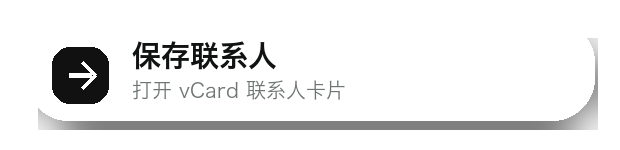
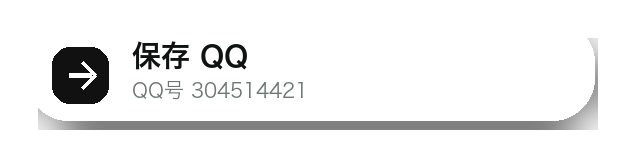
Add WeChat and QQ AR actions

Changed region(s): [[0.2145, 0.5333, 0.5516, 0.6667], [0.3065, 0.2667, 0.4597, 0.48]]

diff --git a/card/ar-live.html b/card/ar-live.html
@@ -333,6 +333,39 @@
     .tap-flash.show {
       animation: tap-pulse 420ms cubic-bezier(.16,1,.3,1);
     }
+    .social-toast {
+      position: fixed;
+      z-index: 38;
+      left: 50%;
+      bottom: max(26px, calc(env(safe-area-inset-bottom) + 20px));
+      width: min(340px, calc(100vw - 32px));
+      padding: 14px 16px;
+      color: #fff;
+      background: rgba(16,19,18,.9);
+      border: 1px solid rgba(255,255,255,.18);
+      box-shadow: 0 22px 48px rgba(0,0,0,.34);
+      backdrop-filter: blur(18px);
+      transform: translate3d(-50%, 18px, 0);
+      opacity: 0;
+      pointer-events: none;
+      transition: opacity 180ms ease, transform 180ms ease;
+    }
+    .social-toast.show {
+      opacity: 1;
+      transform: translate3d(-50%, 0, 0);
+    }
+    .social-toast strong {
+      display: block;
+      font-size: 15px;
+      line-height: 1.25;
+    }
+    .social-toast span {
+      display: block;
+      margin-top: 5px;
+      color: rgba(255,255,255,.72);
+      font-size: 12px;
+      line-height: 1.45;
+    }
     @keyframes card-in {
       from { opacity: 0; transform: translate3d(-24px, -12px, 0) rotate(-4deg) scale(.92); }
       to { opacity: 1; transform: translate3d(0, 0, 0) rotate(2.5deg) scale(1); }
@@ -447,8 +480,8 @@
       <img class="visual held-card" src="tan-junjia-front-print-ready.png" alt="名片正面">
       <img class="visual gallery" src="ar-assets/gallery-panel.png" alt="项目卡片预览">
       <img class="visual identity" src="ar-assets/identity-float.png" alt="谭俊佳">
-      <a class="visual pill website" href="wechat.html"><img src="ar-assets/button-website.png" alt="打开名片页"></a>
-      <a class="visual pill contact" href="contact.vcf"><img src="ar-assets/button-contact.png" alt="保存联系人"></a>
+      <a class="visual pill website" href="weixin://contacts/profile/cyclone_2006"><img src="ar-assets/button-website.png" alt="保存微信 cyclone_2006"></a>
+      <a class="visual pill contact" href="mqqwpa://im/chat?chat_type=wpa&uin=304514421&version=1&src_type=web&web_src=oicqzone.com"><img src="ar-assets/button-contact.png" alt="保存 QQ 304514421"></a>
       <img class="visual web-panel" src="ar-assets/web-panel.png" alt="资料页面板">
       <div class="quick-strip"><strong>广东鼎汇 AR 名片</strong><span>电话 / 邮件 / 地址 / 保存联系人</span></div>
       <a class="icon-link icon-call" href="tel:13692233879"><img src="ar-assets/icon-call.png" alt="拨打电话"></a>
@@ -466,6 +499,7 @@
     <a href="contact.vcf"><img src="ar-assets/icon-save.png" alt="">保存</a>
   </nav>
   <div class="tap-flash" id="tap-flash"></div>
+  <div class="social-toast" id="social-toast" aria-live="polite"></div>
 
   <div id="ar-mount"></div>
   <template id="ar-template">
@@ -512,16 +546,16 @@
             animation__show="property: scale; startEvents: arshow; from: 0.001 0.001 0.001; to: 1 1 1; dur: 430; delay: 390; easing: easeOutBack"
             animation__rise="property: position; startEvents: arshow; from: 0.75 0.04 0.06; to: 0.75 0.08 0.2; dur: 430; delay: 390; easing: easeOutCubic"
             animation__hide="property: scale; startEvents: arhide; to: 0.001 0.001 0.001; dur: 140; easing: easeInQuad">
-            <a-plane class="clickable" data-href="wechat.html" width="0.54" height="0.131" material="src: #buttonWebsite; transparent: true; alphaTest: 0.02; side: double"></a-plane>
-            <a-plane class="clickable" data-href="wechat.html" width="0.66" height="0.22" position="0 0 0.01" material="color: #ffffff; transparent: true; opacity: 0.001; side: double"></a-plane>
+            <a-plane class="clickable" data-href="weixin://contacts/profile/cyclone_2006" width="0.54" height="0.131" material="src: #buttonWebsite; transparent: true; alphaTest: 0.02; side: double"></a-plane>
+            <a-plane class="clickable" data-href="weixin://contacts/profile/cyclone_2006" width="0.66" height="0.22" position="0 0 0.01" material="color: #ffffff; transparent: true; opacity: 0.001; side: double"></a-plane>
           </a-entity>
 
           <a-entity data-pop position="0.75 -0.12 0.2" scale="0.001 0.001 0.001"
             animation__show="property: scale; startEvents: arshow; from: 0.001 0.001 0.001; to: 1 1 1; dur: 430; delay: 500; easing: easeOutBack"
             animation__rise="property: position; startEvents: arshow; from: 0.75 -0.16 0.06; to: 0.75 -0.12 0.2; dur: 430; delay: 500; easing: easeOutCubic"
             animation__hide="property: scale; startEvents: arhide; to: 0.001 0.001 0.001; dur: 140; easing: easeInQuad">
-            <a-plane class="clickable" data-href="contact.vcf" width="0.54" height="0.131" material="src: #buttonContact; transparent: true; alphaTest: 0.02; side: double"></a-plane>
-            <a-plane class="clickable" data-href="contact.vcf" width="0.66" height="0.22" position="0 0 0.01" material="color: #ffffff; transparent: true; opacity: 0.001; side: double"></a-plane>
+            <a-plane class="clickable" data-href="mqqwpa://im/chat?chat_type=wpa&uin=304514421&version=1&src_type=web&web_src=oicqzone.com" width="0.54" height="0.131" material="src: #buttonContact; transparent: true; alphaTest: 0.02; side: double"></a-plane>
+            <a-plane class="clickable" data-href="mqqwpa://im/chat?chat_type=wpa&uin=304514421&version=1&src_type=web&web_src=oicqzone.com" width="0.66" height="0.22" position="0 0 0.01" material="color: #ffffff; transparent: true; opacity: 0.001; side: double"></a-plane>
           </a-entity>
 
           <a-entity data-pop position="1.72 0.14 0.18" rotation="0 -7 0" scale="0.001 0.001 0.001"
@@ -565,6 +599,9 @@
     const statusBox = document.getElementById("tracking-status");
     const startButton = document.getElementById("start-camera");
     const tapFlash = document.getElementById("tap-flash");
+    const socialToast = document.getElementById("social-toast");
+    const WECHAT_ID = "cyclone_2006";
+    const QQ_ID = "304514421";
     let started = false;
     const isIOS = /iPad|iPhone|iPod/.test(navigator.userAgent) || (navigator.platform === "MacIntel" && navigator.maxTouchPoints > 1);
 
@@ -592,11 +629,76 @@
       tapFlash.classList.add("show");
     }
 
+    function showSocialToast(title, message) {
+      if (!socialToast) return;
+      socialToast.innerHTML = `<strong>${title}</strong><span>${message}</span>`;
+      socialToast.classList.add("show");
+      clearTimeout(showSocialToast.timer);
+      showSocialToast.timer = setTimeout(() => socialToast.classList.remove("show"), 4200);
+    }
+
+    async function copyText(text) {
+      if (!text) return false;
+      try {
+        if (navigator.clipboard && window.isSecureContext) {
+          await navigator.clipboard.writeText(text);
+          return true;
+        }
+      } catch (_) {
+      }
+
+      try {
+        const input = document.createElement("textarea");
+        input.value = text;
+        input.setAttribute("readonly", "");
+        input.style.position = "fixed";
+        input.style.left = "-9999px";
+        document.body.appendChild(input);
+        input.select();
+        const copied = document.execCommand("copy");
+        input.remove();
+        return copied;
+      } catch (_) {
+        return false;
+      }
+    }
+
+    function socialActionForHref(href) {
+      if (href.startsWith("weixin://")) {
+        return {
+          appName: "微信",
+          idName: "微信号",
+          idValue: WECHAT_ID,
+          status: "正在打开微信",
+          hint: "微信号已复制，如果没有自动跳转，请打开微信搜索添加"
+        };
+      }
+      if (href.startsWith("mqqwpa://") || href.startsWith("tencent://")) {
+        return {
+          appName: "QQ",
+          idName: "QQ号",
+          idValue: QQ_ID,
+          status: "正在打开 QQ",
+          hint: "QQ号已复制，如果没有自动跳转，请打开 QQ 搜索添加"
+        };
+      }
+      return null;
+    }
+
     function openAction(href, x, y) {
       if (!href) return;
       flashTap(x, y);
       if (navigator.vibrate) navigator.vibrate(18);
-      setStatus("正在打开", "如果没有跳转，请点底部快捷按钮", true);
+      const social = socialActionForHref(href);
+      if (social) {
+        copyText(social.idValue).then((copied) => {
+          const copyMessage = copied ? `${social.idName}已复制：${social.idValue}` : `${social.idName}：${social.idValue}`;
+          showSocialToast(social.status, `${copyMessage}。${social.hint}`);
+        });
+        setStatus(social.status, `${social.idName} ${social.idValue}`, true);
+      } else {
+        setStatus("正在打开", "如果没有跳转，请再点一次按钮", true);
+      }
       setTimeout(() => {
         window.location.href = href;
       }, 90);
@@ -701,7 +803,7 @@
           root.setAttribute("visible", true);
           requestAnimationFrame(() => pops.forEach((el) => el.emit("arshow")));
           setTimeout(() => pops.forEach((el) => el.emit("arfloat")), 1550);
-          setStatus("已识别名片", "可以点击电话、邮件、地址或保存按钮", true);
+          setStatus("已识别名片", "可以点击微信、QQ、电话、邮件或地址", true);
         }
 
         function hidePopups() {
@@ -735,6 +837,13 @@
         setStatus("当前先显示预览", "相机识别未启动，按钮仍可点击", false);
       }
     }
+
+    document.querySelectorAll('a[href^="weixin://"], a[href^="mqqwpa://"], a[href^="tencent://"]').forEach((link) => {
+      link.addEventListener("click", (event) => {
+        event.preventDefault();
+        openAction(link.getAttribute("href"), event.clientX, event.clientY);
+      });
+    });
 
     startButton.addEventListener("click", startAR);
     if (new URLSearchParams(location.search).get("camera") === "1") {

diff --git a/card/wechat.html b/card/wechat.html
@@ -110,11 +110,14 @@
     </div>
     <div class="actions">
       <a class="button ar" href="ar.html">打开 AR 名片动画</a>
+      <a class="button" href="weixin://contacts/profile/cyclone_2006">打开微信添加 cyclone_2006</a>
+      <a class="button secondary" href="mqqwpa://im/chat?chat_type=wpa&uin=304514421&version=1&src_type=web&web_src=oicqzone.com">打开 QQ 添加 304514421</a>
       <a class="button" href="contact.vcf">打开联系人保存界面</a>
       <a class="button secondary" href="tel:13692233879">拨打电话 13692233879</a>
     </div>
     <section class="rows">
       <div class="row"><span>手机</span><strong>13692233879</strong></div><div class="row"><span>邮箱</span><strong>ivan.tan0528@gmail.com</strong></div><div class="row"><span>公司</span><strong>广东省鼎汇项目管理咨询有限公司</strong></div><div class="row"><span>公司</span><strong>深圳鼎汇网络信息有限公司</strong></div><div class="row"><span>陆丰地址</span><strong>陆丰市东海街道龙光村广东省鼎汇项目管理咨询有限公司</strong></div><div class="row"><span>深圳地址</span><strong>深圳市南山区粤海街道海珠社区滨海大道3165号五矿金融大厦1103</strong></div>
+      <div class="row"><span>微信</span><strong>cyclone_2006</strong></div><div class="row"><span>QQ</span><strong>304514421</strong></div>
     </section>
     <p class="hint">说明：普通微信网页不能直接写入手机通讯录。点击上方按钮会打开 vCard 联系人卡片；如果微信显示为文件，请点右上角选择“在浏览器打开”，再添加到通讯录。真正的微信内一键保存需要做微信小程序。</p>
   </main>
